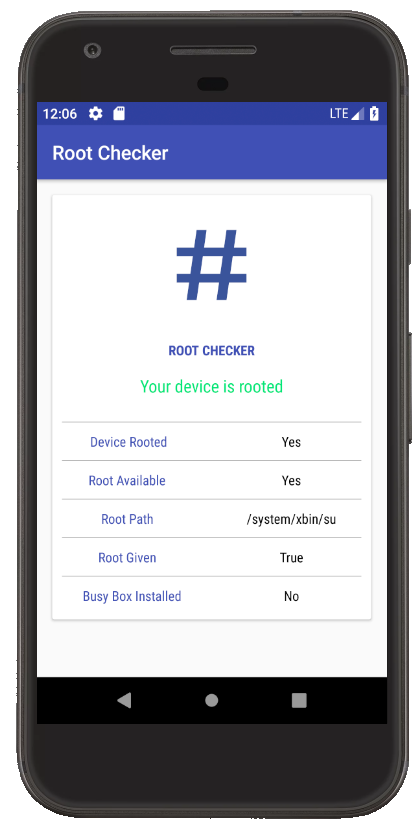
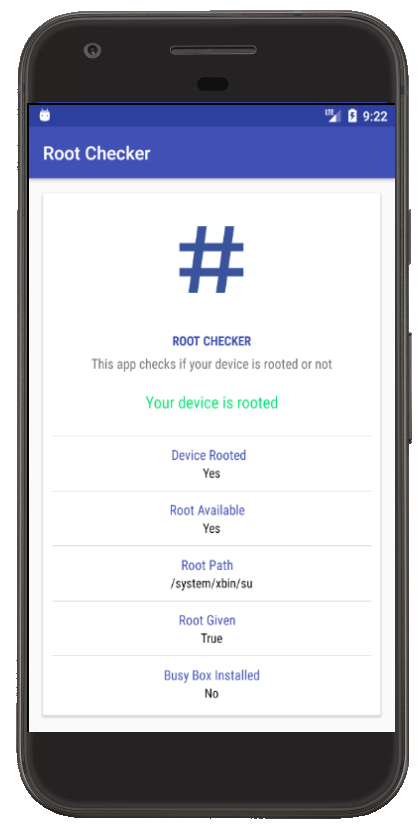
Development commit
- Updated internal kotlin plugin
- UI design changes

Changed region(s): [[0.0621, 0.1243, 0.9618, 0.9008], [0.4033, 0.2485, 0.5895, 0.3728], [0.2172, 0.4038, 0.2482, 0.4659]]

diff --git a/app/src/main/java/com/roottools/rootchecker/MainActivity.kt b/app/src/main/java/com/roottools/rootchecker/MainActivity.kt
@@ -30,8 +30,8 @@ class MainActivity : AppCompatActivity(), CoroutineScope by MainScope() {
         //Coroutine
         launch(Dispatchers.Default) {
             try {
-                rooted = RootUtilities.isRootAvailable()
-                rootGivenBool = RootUtilities.isRootGiven()
+                rooted = RootUtilities.isRootAvailableOnDevice()
+                rootGivenBool = RootUtilities.isRootGivenForDevice()
                 busyBoxInstalledBool = RootUtilities.isBusyBoxInstalled()
 
                 //UI Thread
@@ -41,38 +41,45 @@ class MainActivity : AppCompatActivity(), CoroutineScope by MainScope() {
                         binding.RootTextDesc.setTextColor(Color.parseColor("#00E676"))
 
                         binding.DeviceRooted.text = Constants.YES
-                        binding.RootPathText.text = RootUtilities.findBinaryLocation()
+                        binding.RootPathTextTV.text = RootUtilities.findBinaryLocationPath()
 
                         if (rootGivenBool)
-                            binding.RootGivenText.text = Constants.TRUE
+                            binding.RootGivenDeviceText.text = Constants.TRUE
                         else
-                            binding.RootGivenText.text = Constants.FALSE
+                            binding.RootGivenDeviceText.text = Constants.FALSE
 
 
                         if (rooted) {
-                            binding.RootGivenText.text = Constants.TRUE
-                            binding.DeviceRootAvailable.text = Constants.YES
+                            binding.RootGivenDeviceText.text = Constants.TRUE
+                            binding.DeviceRootAvailableOnDevice.text = Constants.YES
                         } else {
-                            binding.DeviceRootAvailable.text = Constants.NO
-                            binding.RootGivenText.text = Constants.FALSE
+                            binding.DeviceRootAvailableOnDevice.text = Constants.NO
+                            binding.RootGivenDeviceText.text = Constants.FALSE
                         }
 
                         if (busyBoxInstalledBool)
-                            binding.busyBoxInstalled.text = Constants.YES
+                            binding.busyBoxInstalledOnDevice.text = Constants.YES
                         else
-                            binding.busyBoxInstalled.text = Constants.NO
+                            binding.busyBoxInstalledOnDevice.text = Constants.NO
 
                     } else {
-                        binding.DeviceRootAvailable.text = Constants.NO
-                        binding.RootGivenText.text = Constants.NO
-                        binding.RootPathText.text = Constants.SYMBOL_HYPHEN
+                        binding.DeviceRootAvailableOnDevice.text = Constants.NO
+                        binding.RootGivenDeviceText.text = Constants.NO
+                        binding.RootPathTextTV.text = Constants.SYMBOL_HYPHEN
                         binding.DeviceRooted.text = Constants.NO
-                        binding.busyBoxInstalled.text = Constants.NO
+                        binding.busyBoxInstalledOnDevice.text = Constants.NO
                     }
                 }
             } catch (e: java.lang.Exception) {
                 e.printStackTrace()
             }
         }
+    }
+
+
+    override fun onDestroy() {
+        super.onDestroy()
+        //Cancels the coroutine scope including its job
+        cancel()
     }
 }

diff --git a/app/src/main/java/com/roottools/rootchecker/ConstantsUtilities/RootUtilities.kt b/app/src/main/java/com/roottools/rootchecker/ConstantsUtilities/RootUtilities.kt
@@ -3,6 +3,7 @@ package com.roottools.rootchecker.ConstantsUtilities
 import java.io.BufferedReader
 import java.io.File
 import java.io.InputStreamReader
+import java.util.*
 
 
 object RootUtilities {
@@ -27,7 +28,7 @@ object RootUtilities {
     }
 
 
-    fun findBinaryLocation(): String {
+    fun findBinaryLocationPath(): String {
         var path = Constants.SYMBOL_HYPHEN
         var found = false
         if (!found) {
@@ -44,7 +45,7 @@ object RootUtilities {
     }
 
 
-    fun isRootAvailable(): Boolean {
+    fun isRootAvailableOnDevice(): Boolean {
         for (pathDir in System.getenv("PATH")?.split(":".toRegex())?.dropLastWhile { it.isEmpty() }?.toTypedArray()!!) {
             if (File(pathDir, "su").exists()) {
                 return true
@@ -55,11 +56,11 @@ object RootUtilities {
 
 
     fun isBusyBoxInstalled(): Boolean {
-        return checkBinaryBusyBox("busybox")
+        return checkBinaryBusyBoxInstalled("busybox")
     }
 
 
-    private fun checkBinaryBusyBox(filename: String): Boolean {
+    private fun checkBinaryBusyBoxInstalled(filename: String): Boolean {
         val pathsArray = arrayOf("/data/local/", "/data/local/bin/", "/data/local/xbin/", "/sbin/", "/su/bin/", "/system/bin/", "/system/bin/.ext/", "/system/bin/failsafe/", "/system/sd/xbin/", "/system/usr/we-need-root/", "/system/xbin/")
         var result = false
         for (path in pathsArray) {
@@ -74,14 +75,14 @@ object RootUtilities {
     }
 
 
-    fun isRootGiven(): Boolean {
-        if (isRootAvailable()) {
+    fun isRootGivenForDevice(): Boolean {
+        if (isRootAvailableOnDevice()) {
             var process: Process? = null
             try {
                 process = Runtime.getRuntime().exec(arrayOf("su", "-c", "id"))
                 val input = BufferedReader(InputStreamReader(process!!.inputStream))
                 val output = input.readLine()
-                if (output != null && output.toLowerCase().contains("uid=0"))
+                if (output != null && output.lowercase(Locale.getDefault()).contains("uid=0"))
                     return true
             } catch (e: Exception) {
                 e.printStackTrace()
